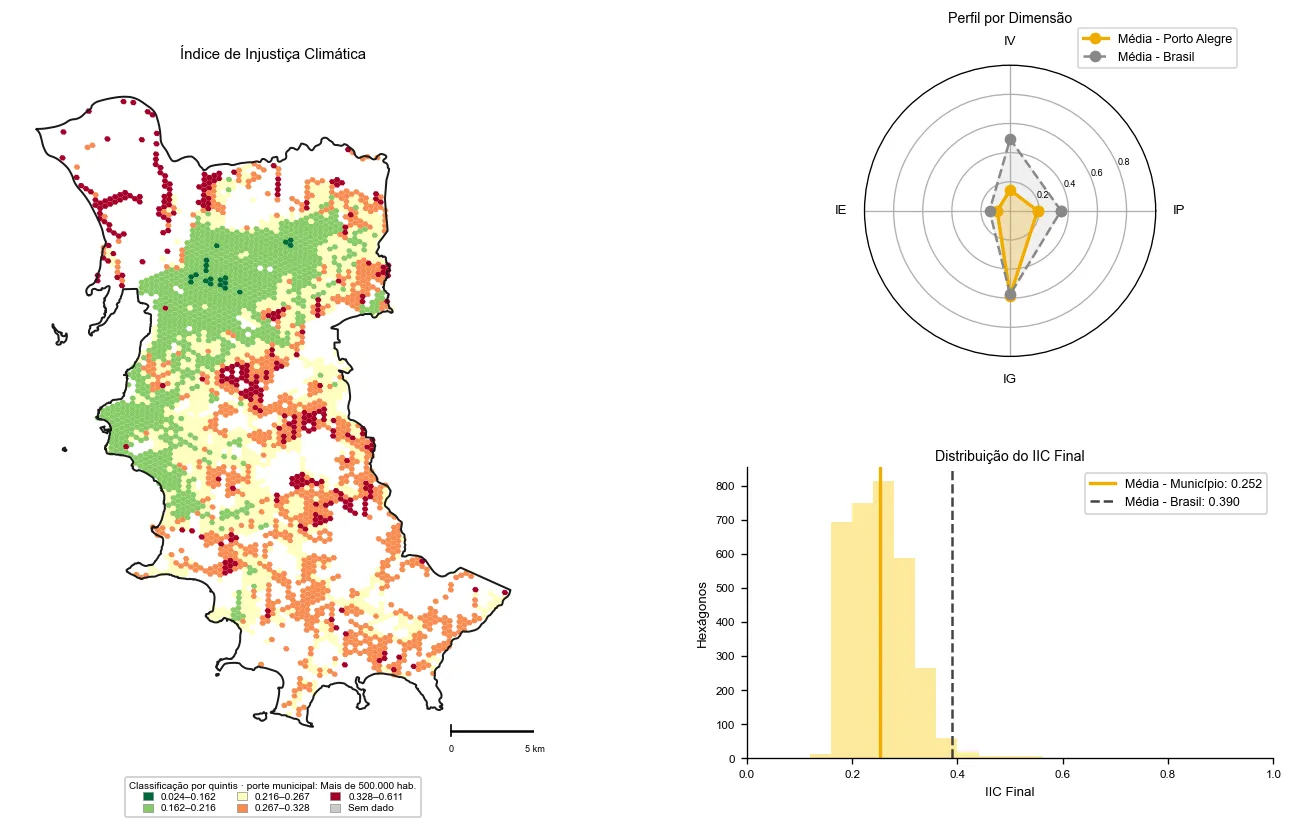
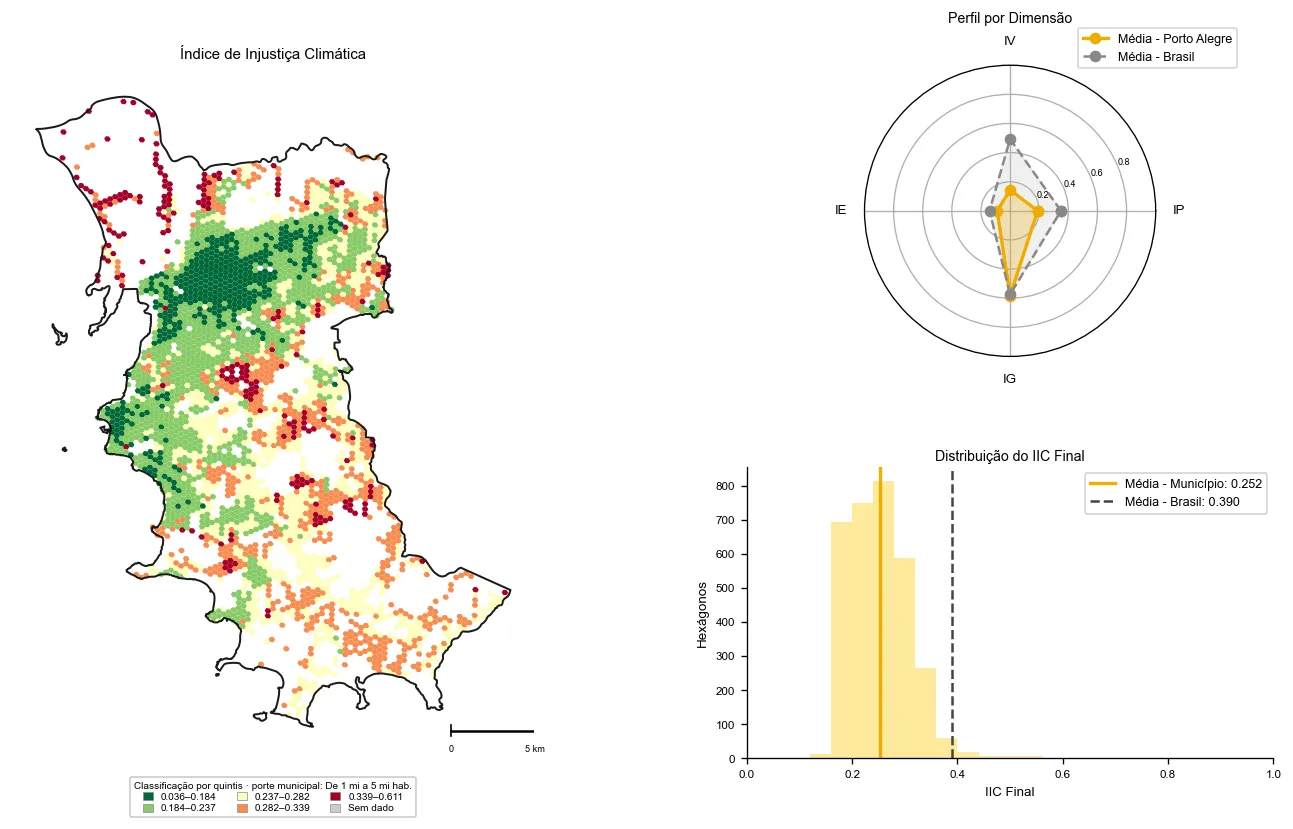
Update city tipologies

diff --git a/docs/index.html b/docs/index.html
@@ -415,7 +415,7 @@
           <span class="stat-label">Hexágonos</span>
         </div>
         <div class="quick-stat">
-          <span class="stat-value" style="font-size:1.1rem;">Mais de 500.000 hab.</span>
+          <span class="stat-value" style="font-size:1.1rem;">De 1 mi a 5 mi hab.</span>
           <span class="stat-label">Porte Municipal</span>
         </div>
       </div>
@@ -792,7 +792,7 @@
           <span class="stat-label">Hexágonos</span>
         </div>
         <div class="quick-stat">
-          <span class="stat-value" style="font-size:1.1rem;">Mais de 500.000 hab.</span>
+          <span class="stat-value" style="font-size:1.1rem;">Mais de 10 mi hab.</span>
           <span class="stat-label">Porte Municipal</span>
         </div>
       </div>